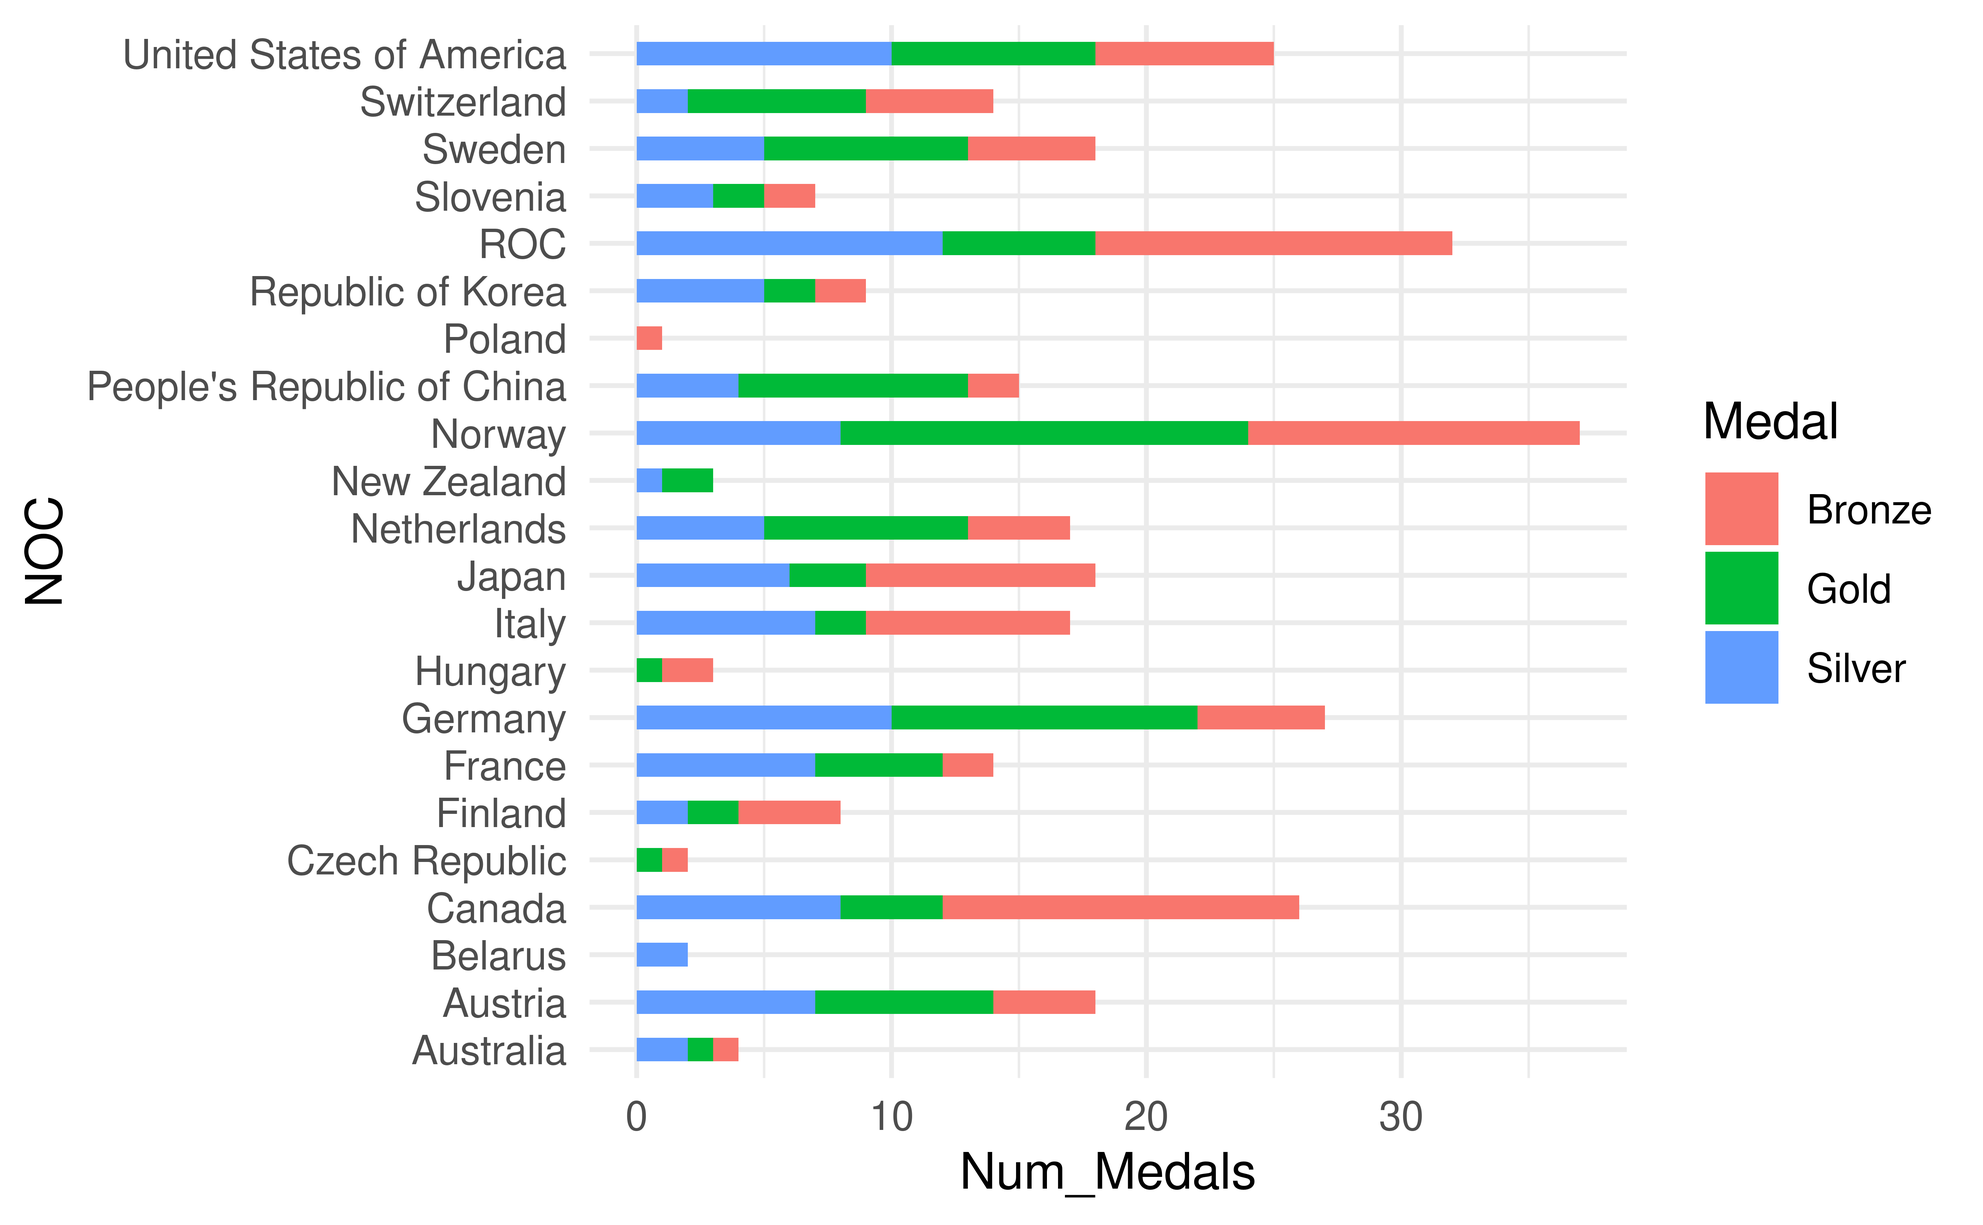
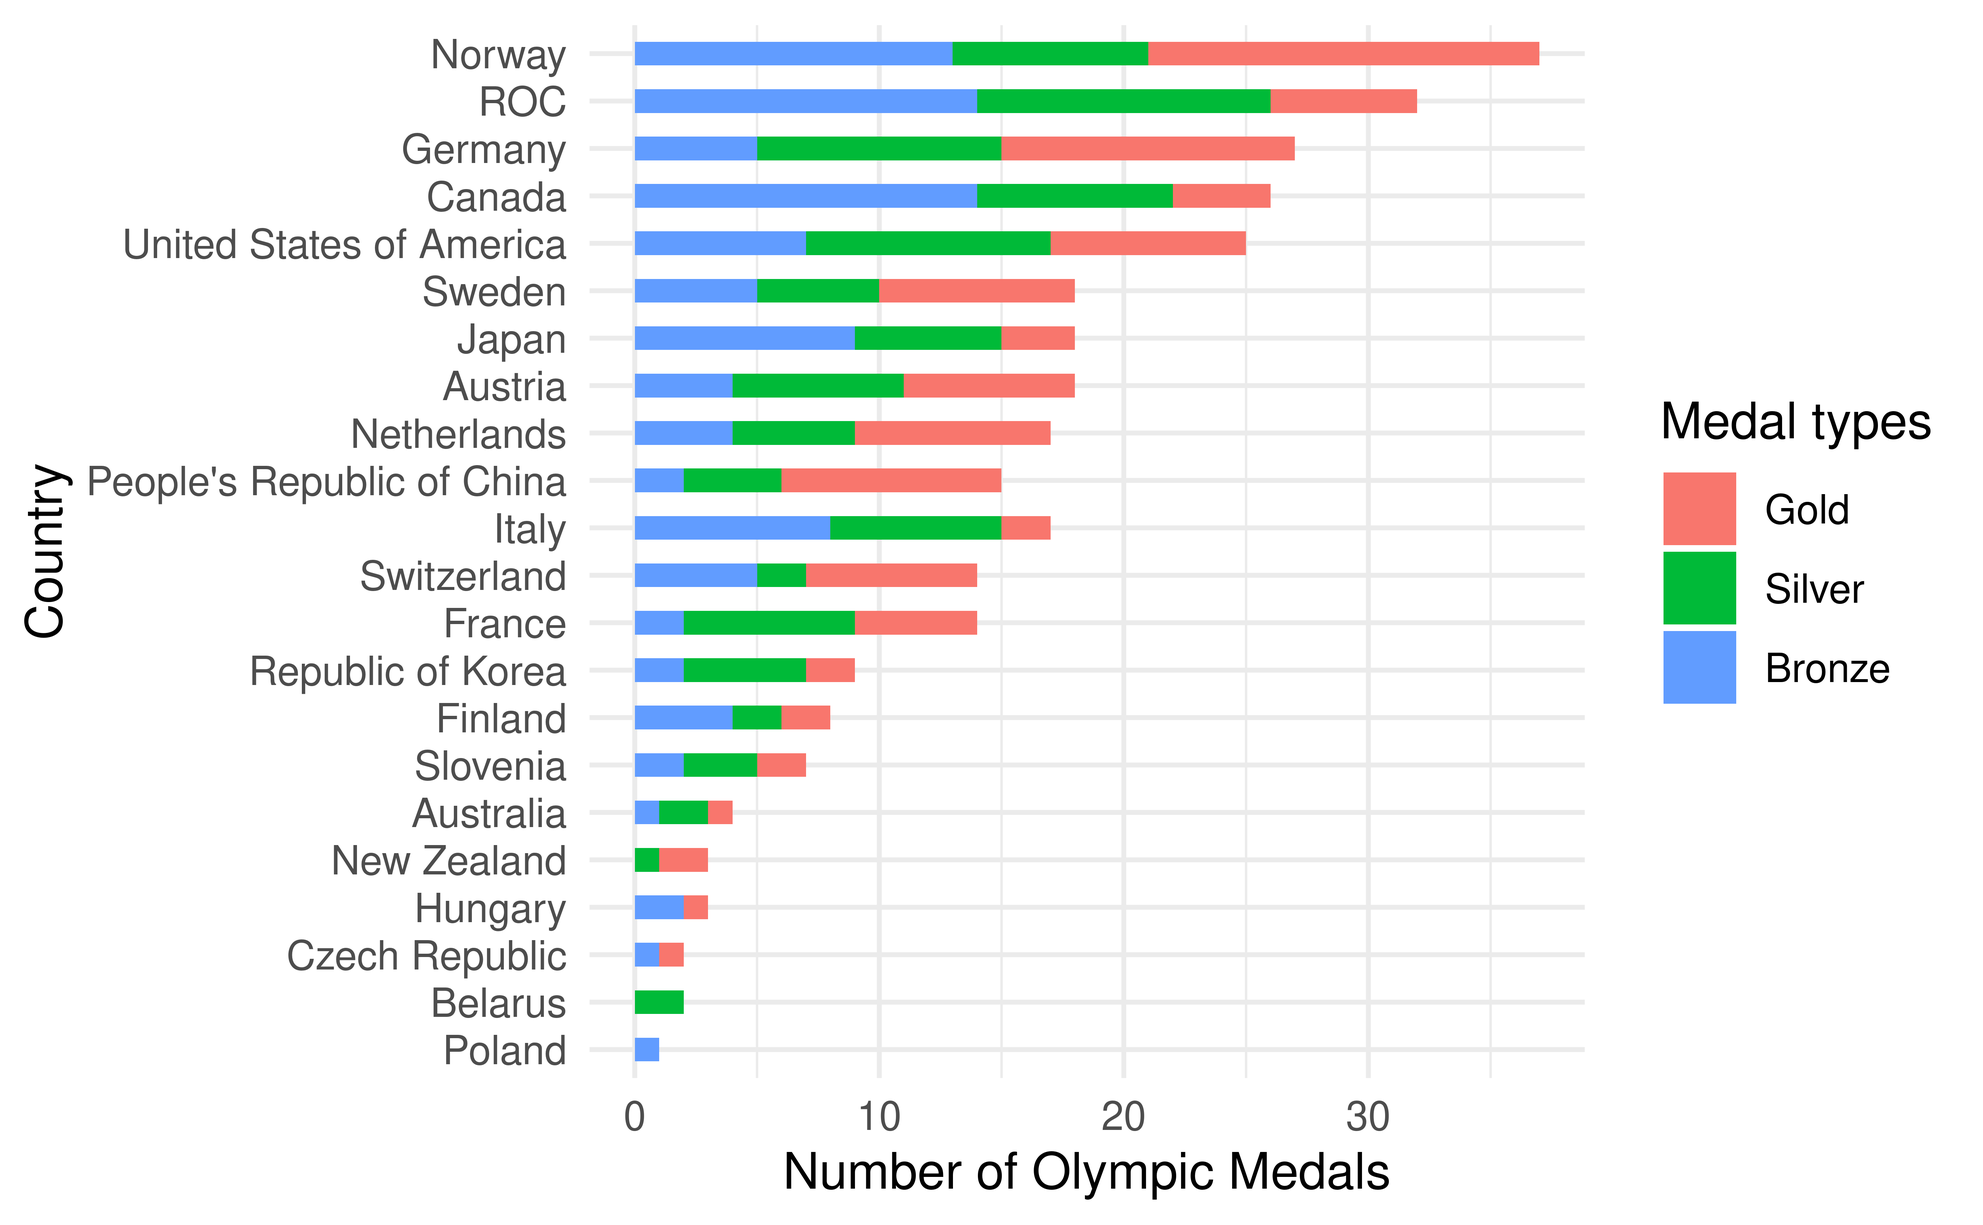
Fixed slide 6!

diff --git a/presentation/presentation.html b/presentation/presentation.html
@@ -3,7 +3,7 @@
   <head>
     <title>Olympics: Cash, Climate, and Champions</title>
     <meta charset="utf-8" />
-    <meta name="date" content="2022-04-14" />
+    <meta name="date" content="2022-04-19" />
     <script src="libs/header-attrs-2.11/header-attrs.js"></script>
     <script src="libs/htmlwidgets-1.5.4/htmlwidgets.js"></script>
     <script src="libs/jquery-1.12.4/jquery.min.js"></script>
@@ -23,7 +23,7 @@ class: center, middle, inverse, title-slide
 # Olympics: Cash, Climate, and Champions
 ## Effect of GDP and Temperature on Medal Count
 ### Bates College
-### 2022-04-14
+### 2022-04-19
 
 ---
 
@@ -86,8 +86,8 @@ class: inverse, center
 #Where our Data Comes From:
 .pull-center[
 
-<div id="htmlwidget-e2292fee1b091dbd8e1a" style="width:70%;height:1112.4px;" class="leaflet html-widget"></div>
-<script type="application/json" data-for="htmlwidget-e2292fee1b091dbd8e1a">{"x":{"options":{"crs":{"crsClass":"L.CRS.EPSG3857","code":null,"proj4def":null,"projectedBounds":null,"options":{}}},"calls":[{"method":"addTiles","args":["https://{s}.tile.openstreetmap.org/{z}/{x}/{y}.png",null,null,{"minZoom":0,"maxZoom":18,"tileSize":256,"subdomains":"abc","errorTileUrl":"","tms":false,"noWrap":false,"zoomOffset":0,"zoomReverse":false,"opacity":1,"zIndex":1,"detectRetina":false,"attribution":"&copy; <a href=\"https://openstreetmap.org\">OpenStreetMap<\/a> contributors, <a href=\"https://creativecommons.org/licenses/by-sa/2.0/\">CC-BY-SA<\/a>"}]},{"method":"addCircleMarkers","args":[60,19,10,null,null,{"interactive":true,"className":"","stroke":true,"color":"red","weight":5,"opacity":0.5,"fill":true,"fillColor":"red","fillOpacity":0.2},null,null,null,null,null,{"interactive":false,"permanent":false,"direction":"auto","opacity":1,"offset":[0,0],"textsize":"10px","textOnly":false,"className":"","sticky":true},null]},{"method":"addCircleMarkers","args":[52,5.29,10,null,null,{"interactive":true,"className":"","stroke":true,"color":"blue","weight":5,"opacity":0.5,"fill":true,"fillColor":"blue","fillOpacity":0.2},null,null,null,null,null,{"interactive":false,"permanent":false,"direction":"auto","opacity":1,"offset":[0,0],"textsize":"10px","textOnly":false,"className":"","sticky":true},null]},{"method":"addCircleMarkers","args":[35.86,104.19,10,null,null,{"interactive":true,"className":"","stroke":true,"color":"purple","weight":5,"opacity":0.5,"fill":true,"fillColor":"purple","fillOpacity":0.2},null,null,null,null,null,{"interactive":false,"permanent":false,"direction":"auto","opacity":1,"offset":[0,0],"textsize":"10px","textOnly":false,"className":"","sticky":true},null]},{"method":"addCircleMarkers","args":[51.16,10.45,10,null,null,{"interactive":true,"className":"","stroke":true,"color":"yellow","weight":5,"opacity":0.5,"fill":true,"fillColor":"yellow","fillOpacity":0.2},null,null,null,null,null,{"interactive":false,"permanent":false,"direction":"auto","opacity":1,"offset":[0,0],"textsize":"10px","textOnly":false,"className":"","sticky":true},null]},{"method":"addCircleMarkers","args":[60.47,8.47,10,null,null,{"interactive":true,"className":"","stroke":true,"color":"pink","weight":5,"opacity":0.5,"fill":true,"fillColor":"pink","fillOpacity":0.2},null,null,null,null,null,{"interactive":false,"permanent":false,"direction":"auto","opacity":1,"offset":[0,0],"textsize":"10px","textOnly":false,"className":"","sticky":true},null]},{"method":"addCircleMarkers","args":[41.87,12.57,10,null,null,{"interactive":true,"className":"","stroke":true,"color":"black","weight":5,"opacity":0.5,"fill":true,"fillColor":"black","fillOpacity":0.2},null,null,null,null,null,{"interactive":false,"permanent":false,"direction":"auto","opacity":1,"offset":[0,0],"textsize":"10px","textOnly":false,"className":"","sticky":true},null]},{"method":"addCircleMarkers","args":[61.52,105.32,10,null,null,{"interactive":true,"className":"","stroke":true,"color":"orange","weight":5,"opacity":0.5,"fill":true,"fillColor":"orange","fillOpacity":0.2},null,null,null,null,null,{"interactive":false,"permanent":false,"direction":"auto","opacity":1,"offset":[0,0],"textsize":"10px","textOnly":false,"className":"","sticky":true},null]},{"method":"addCircleMarkers","args":[47.52,14.55,10,null,null,{"interactive":true,"className":"","stroke":true,"color":"white","weight":5,"opacity":0.5,"fill":true,"fillColor":"white","fillOpacity":0.2},null,null,null,null,null,{"interactive":false,"permanent":false,"direction":"auto","opacity":1,"offset":[0,0],"textsize":"10px","textOnly":false,"className":"","sticky":true},null]},{"method":"addCircleMarkers","args":[46.15,14.99,10,null,null,{"interactive":true,"className":"","stroke":true,"color":"green","weight":5,"opacity":0.5,"fill":true,"fillColor":"green","fillOpacity":0.2},null,null,null,null,null,{"interactive":false,"permanent":false,"direction":"auto","opacity":1,"offset":[0,0],"textsize":"10px","textOnly":false,"className":"","sticky":true},null]},{"method":"addCircleMarkers","args":[46.23,2.2138,10,null,null,{"interactive":true,"className":"","stroke":true,"color":"purple4","weight":5,"opacity":0.5,"fill":true,"fillColor":"purple4","fillOpacity":0.2},null,null,null,null,null,{"interactive":false,"permanent":false,"direction":"auto","opacity":1,"offset":[0,0],"textsize":"10px","textOnly":false,"className":"","sticky":true},null]},{"method":"addCircleMarkers","args":[56.14,106.35,10,null,null,{"interactive":true,"className":"","stroke":true,"color":"plum1","weight":5,"opacity":0.5,"fill":true,"fillColor":"plum1","fillOpacity":0.2},null,null,null,null,null,{"interactive":false,"permanent":false,"direction":"auto","opacity":1,"offset":[0,0],"textsize":"10px","textOnly":false,"className":"","sticky":true},null]},{"method":"addCircleMarkers","args":[36.2,138.26,10,null,null,{"interactive":true,"className":"","stroke":true,"color":"wheat","weight":5,"opacity":0.5,"fill":true,"fillColor":"wheat","fillOpacity":0.2},null,null,null,null,null,{"interactive":false,"permanent":false,"direction":"auto","opacity":1,"offset":[0,0],"textsize":"10px","textOnly":false,"className":"","sticky":true},null]},{"method":"addCircleMarkers","args":[46.82,8.2275,10,null,null,{"interactive":true,"className":"","stroke":true,"color":"steelblue1","weight":5,"opacity":0.5,"fill":true,"fillColor":"steelblue1","fillOpacity":0.2},null,null,null,null,null,{"interactive":false,"permanent":false,"direction":"auto","opacity":1,"offset":[0,0],"textsize":"10px","textOnly":false,"className":"","sticky":true},null]},{"method":"addCircleMarkers","args":[25.27,133.87,10,null,null,{"interactive":true,"className":"","stroke":true,"color":"gold","weight":5,"opacity":0.5,"fill":true,"fillColor":"gold","fillOpacity":0.2},null,null,null,null,null,{"interactive":false,"permanent":false,"direction":"auto","opacity":1,"offset":[0,0],"textsize":"10px","textOnly":false,"className":"","sticky":true},null]},{"method":"addCircleMarkers","args":[49.82,15.47,10,null,null,{"interactive":true,"className":"","stroke":true,"color":"peachpuff1","weight":5,"opacity":0.5,"fill":true,"fillColor":"peachpuff1","fillOpacity":0.2},null,null,null,null,null,{"interactive":false,"permanent":false,"direction":"auto","opacity":1,"offset":[0,0],"textsize":"10px","textOnly":false,"className":"","sticky":true},null]},{"method":"addCircleMarkers","args":[40.9,174.89,10,null,null,{"interactive":true,"className":"","stroke":true,"color":"mistyrose2","weight":5,"opacity":0.5,"fill":true,"fillColor":"mistyrose2","fillOpacity":0.2},null,null,null,null,null,{"interactive":false,"permanent":false,"direction":"auto","opacity":1,"offset":[0,0],"textsize":"10px","textOnly":false,"className":"","sticky":true},null]},{"method":"addCircleMarkers","args":[37.09,95.71,10,null,null,{"interactive":true,"className":"","stroke":true,"color":"salmon2","weight":5,"opacity":0.5,"fill":true,"fillColor":"salmon2","fillOpacity":0.2},null,null,null,null,null,{"interactive":false,"permanent":false,"direction":"auto","opacity":1,"offset":[0,0],"textsize":"10px","textOnly":false,"className":"","sticky":true},null]},{"method":"addCircleMarkers","args":[53.71,27.95,10,null,null,{"interactive":true,"className":"","stroke":true,"color":"forestgreen","weight":5,"opacity":0.5,"fill":true,"fillColor":"forestgreen","fillOpacity":0.2},null,null,null,null,null,{"interactive":false,"permanent":false,"direction":"auto","opacity":1,"offset":[0,0],"textsize":"10px","textOnly":false,"className":"","sticky":true},null]},{"method":"addCircleMarkers","args":[47.16,19.5,10,null,null,{"interactive":true,"className":"","stroke":true,"color":"maroon2","weight":5,"opacity":0.5,"fill":true,"fillColor":"maroon2","fillOpacity":0.2},null,null,null,null,null,{"interactive":false,"permanent":false,"direction":"auto","opacity":1,"offset":[0,0],"textsize":"10px","textOnly":false,"className":"","sticky":true},null]},{"method":"addCircleMarkers","args":[61.92,25.75,10,null,null,{"interactive":true,"className":"","stroke":true,"color":"maroon","weight":5,"opacity":0.5,"fill":true,"fillColor":"maroon","fillOpacity":0.2},null,null,null,null,null,{"interactive":false,"permanent":false,"direction":"auto","opacity":1,"offset":[0,0],"textsize":"10px","textOnly":false,"className":"","sticky":true},null]},{"method":"addCircleMarkers","args":[35.91,127.77,10,null,null,{"interactive":true,"className":"","stroke":true,"color":"palegreen","weight":5,"opacity":0.5,"fill":true,"fillColor":"palegreen","fillOpacity":0.2},null,null,null,null,null,{"interactive":false,"permanent":false,"direction":"auto","opacity":1,"offset":[0,0],"textsize":"10px","textOnly":false,"className":"","sticky":true},null]},{"method":"addCircleMarkers","args":[51.92,19.15,10,null,null,{"interactive":true,"className":"","stroke":true,"color":"turquoise2","weight":5,"opacity":0.5,"fill":true,"fillColor":"turquoise2","fillOpacity":0.2},null,null,null,null,null,{"interactive":false,"permanent":false,"direction":"auto","opacity":1,"offset":[0,0],"textsize":"10px","textOnly":false,"className":"","sticky":true},null]}],"limits":{"lat":[25.27,61.92],"lng":[2.2138,174.89]}},"evals":[],"jsHooks":[]}</script>
+<div id="htmlwidget-81b42ddbbd52c40c7c3d" style="width:70%;height:1112.4px;" class="leaflet html-widget"></div>
+<script type="application/json" data-for="htmlwidget-81b42ddbbd52c40c7c3d">{"x":{"options":{"crs":{"crsClass":"L.CRS.EPSG3857","code":null,"proj4def":null,"projectedBounds":null,"options":{}}},"calls":[{"method":"addTiles","args":["https://{s}.tile.openstreetmap.org/{z}/{x}/{y}.png",null,null,{"minZoom":0,"maxZoom":18,"tileSize":256,"subdomains":"abc","errorTileUrl":"","tms":false,"noWrap":false,"zoomOffset":0,"zoomReverse":false,"opacity":1,"zIndex":1,"detectRetina":false,"attribution":"&copy; <a href=\"https://openstreetmap.org\">OpenStreetMap<\/a> contributors, <a href=\"https://creativecommons.org/licenses/by-sa/2.0/\">CC-BY-SA<\/a>"}]},{"method":"addCircleMarkers","args":[60,19,10,null,null,{"interactive":true,"className":"","stroke":true,"color":"red","weight":5,"opacity":0.5,"fill":true,"fillColor":"red","fillOpacity":0.2},null,null,null,null,null,{"interactive":false,"permanent":false,"direction":"auto","opacity":1,"offset":[0,0],"textsize":"10px","textOnly":false,"className":"","sticky":true},null]},{"method":"addCircleMarkers","args":[52,5.29,10,null,null,{"interactive":true,"className":"","stroke":true,"color":"blue","weight":5,"opacity":0.5,"fill":true,"fillColor":"blue","fillOpacity":0.2},null,null,null,null,null,{"interactive":false,"permanent":false,"direction":"auto","opacity":1,"offset":[0,0],"textsize":"10px","textOnly":false,"className":"","sticky":true},null]},{"method":"addCircleMarkers","args":[35.86,104.19,10,null,null,{"interactive":true,"className":"","stroke":true,"color":"purple","weight":5,"opacity":0.5,"fill":true,"fillColor":"purple","fillOpacity":0.2},null,null,null,null,null,{"interactive":false,"permanent":false,"direction":"auto","opacity":1,"offset":[0,0],"textsize":"10px","textOnly":false,"className":"","sticky":true},null]},{"method":"addCircleMarkers","args":[51.16,10.45,10,null,null,{"interactive":true,"className":"","stroke":true,"color":"yellow","weight":5,"opacity":0.5,"fill":true,"fillColor":"yellow","fillOpacity":0.2},null,null,null,null,null,{"interactive":false,"permanent":false,"direction":"auto","opacity":1,"offset":[0,0],"textsize":"10px","textOnly":false,"className":"","sticky":true},null]},{"method":"addCircleMarkers","args":[60.47,8.47,10,null,null,{"interactive":true,"className":"","stroke":true,"color":"pink","weight":5,"opacity":0.5,"fill":true,"fillColor":"pink","fillOpacity":0.2},null,null,null,null,null,{"interactive":false,"permanent":false,"direction":"auto","opacity":1,"offset":[0,0],"textsize":"10px","textOnly":false,"className":"","sticky":true},null]},{"method":"addCircleMarkers","args":[41.87,12.57,10,null,null,{"interactive":true,"className":"","stroke":true,"color":"black","weight":5,"opacity":0.5,"fill":true,"fillColor":"black","fillOpacity":0.2},null,null,null,null,null,{"interactive":false,"permanent":false,"direction":"auto","opacity":1,"offset":[0,0],"textsize":"10px","textOnly":false,"className":"","sticky":true},null]},{"method":"addCircleMarkers","args":[61.52,105.32,10,null,null,{"interactive":true,"className":"","stroke":true,"color":"orange","weight":5,"opacity":0.5,"fill":true,"fillColor":"orange","fillOpacity":0.2},null,null,null,null,null,{"interactive":false,"permanent":false,"direction":"auto","opacity":1,"offset":[0,0],"textsize":"10px","textOnly":false,"className":"","sticky":true},null]},{"method":"addCircleMarkers","args":[47.52,14.55,10,null,null,{"interactive":true,"className":"","stroke":true,"color":"white","weight":5,"opacity":0.5,"fill":true,"fillColor":"white","fillOpacity":0.2},null,null,null,null,null,{"interactive":false,"permanent":false,"direction":"auto","opacity":1,"offset":[0,0],"textsize":"10px","textOnly":false,"className":"","sticky":true},null]},{"method":"addCircleMarkers","args":[46.15,14.99,10,null,null,{"interactive":true,"className":"","stroke":true,"color":"green","weight":5,"opacity":0.5,"fill":true,"fillColor":"green","fillOpacity":0.2},null,null,null,null,null,{"interactive":false,"permanent":false,"direction":"auto","opacity":1,"offset":[0,0],"textsize":"10px","textOnly":false,"className":"","sticky":true},null]},{"method":"addCircleMarkers","args":[46.23,2.2138,10,null,null,{"interactive":true,"className":"","stroke":true,"color":"purple4","weight":5,"opacity":0.5,"fill":true,"fillColor":"purple4","fillOpacity":0.2},null,null,null,null,null,{"interactive":false,"permanent":false,"direction":"auto","opacity":1,"offset":[0,0],"textsize":"10px","textOnly":false,"className":"","sticky":true},null]},{"method":"addCircleMarkers","args":[56.14,106.35,10,null,null,{"interactive":true,"className":"","stroke":true,"color":"plum1","weight":5,"opacity":0.5,"fill":true,"fillColor":"plum1","fillOpacity":0.2},null,null,null,null,null,{"interactive":false,"permanent":false,"direction":"auto","opacity":1,"offset":[0,0],"textsize":"10px","textOnly":false,"className":"","sticky":true},null]},{"method":"addCircleMarkers","args":[36.2,138.26,10,null,null,{"interactive":true,"className":"","stroke":true,"color":"wheat","weight":5,"opacity":0.5,"fill":true,"fillColor":"wheat","fillOpacity":0.2},null,null,null,null,null,{"interactive":false,"permanent":false,"direction":"auto","opacity":1,"offset":[0,0],"textsize":"10px","textOnly":false,"className":"","sticky":true},null]},{"method":"addCircleMarkers","args":[46.82,8.2275,10,null,null,{"interactive":true,"className":"","stroke":true,"color":"steelblue1","weight":5,"opacity":0.5,"fill":true,"fillColor":"steelblue1","fillOpacity":0.2},null,null,null,null,null,{"interactive":false,"permanent":false,"direction":"auto","opacity":1,"offset":[0,0],"textsize":"10px","textOnly":false,"className":"","sticky":true},null]},{"method":"addCircleMarkers","args":[25.27,133.87,10,null,null,{"interactive":true,"className":"","stroke":true,"color":"gold","weight":5,"opacity":0.5,"fill":true,"fillColor":"gold","fillOpacity":0.2},null,null,null,null,null,{"interactive":false,"permanent":false,"direction":"auto","opacity":1,"offset":[0,0],"textsize":"10px","textOnly":false,"className":"","sticky":true},null]},{"method":"addCircleMarkers","args":[49.82,15.47,10,null,null,{"interactive":true,"className":"","stroke":true,"color":"peachpuff1","weight":5,"opacity":0.5,"fill":true,"fillColor":"peachpuff1","fillOpacity":0.2},null,null,null,null,null,{"interactive":false,"permanent":false,"direction":"auto","opacity":1,"offset":[0,0],"textsize":"10px","textOnly":false,"className":"","sticky":true},null]},{"method":"addCircleMarkers","args":[40.9,174.89,10,null,null,{"interactive":true,"className":"","stroke":true,"color":"mistyrose2","weight":5,"opacity":0.5,"fill":true,"fillColor":"mistyrose2","fillOpacity":0.2},null,null,null,null,null,{"interactive":false,"permanent":false,"direction":"auto","opacity":1,"offset":[0,0],"textsize":"10px","textOnly":false,"className":"","sticky":true},null]},{"method":"addCircleMarkers","args":[37.09,95.71,10,null,null,{"interactive":true,"className":"","stroke":true,"color":"salmon2","weight":5,"opacity":0.5,"fill":true,"fillColor":"salmon2","fillOpacity":0.2},null,null,null,null,null,{"interactive":false,"permanent":false,"direction":"auto","opacity":1,"offset":[0,0],"textsize":"10px","textOnly":false,"className":"","sticky":true},null]},{"method":"addCircleMarkers","args":[53.71,27.95,10,null,null,{"interactive":true,"className":"","stroke":true,"color":"forestgreen","weight":5,"opacity":0.5,"fill":true,"fillColor":"forestgreen","fillOpacity":0.2},null,null,null,null,null,{"interactive":false,"permanent":false,"direction":"auto","opacity":1,"offset":[0,0],"textsize":"10px","textOnly":false,"className":"","sticky":true},null]},{"method":"addCircleMarkers","args":[47.16,19.5,10,null,null,{"interactive":true,"className":"","stroke":true,"color":"maroon2","weight":5,"opacity":0.5,"fill":true,"fillColor":"maroon2","fillOpacity":0.2},null,null,null,null,null,{"interactive":false,"permanent":false,"direction":"auto","opacity":1,"offset":[0,0],"textsize":"10px","textOnly":false,"className":"","sticky":true},null]},{"method":"addCircleMarkers","args":[61.92,25.75,10,null,null,{"interactive":true,"className":"","stroke":true,"color":"maroon","weight":5,"opacity":0.5,"fill":true,"fillColor":"maroon","fillOpacity":0.2},null,null,null,null,null,{"interactive":false,"permanent":false,"direction":"auto","opacity":1,"offset":[0,0],"textsize":"10px","textOnly":false,"className":"","sticky":true},null]},{"method":"addCircleMarkers","args":[35.91,127.77,10,null,null,{"interactive":true,"className":"","stroke":true,"color":"palegreen","weight":5,"opacity":0.5,"fill":true,"fillColor":"palegreen","fillOpacity":0.2},null,null,null,null,null,{"interactive":false,"permanent":false,"direction":"auto","opacity":1,"offset":[0,0],"textsize":"10px","textOnly":false,"className":"","sticky":true},null]},{"method":"addCircleMarkers","args":[51.92,19.15,10,null,null,{"interactive":true,"className":"","stroke":true,"color":"turquoise2","weight":5,"opacity":0.5,"fill":true,"fillColor":"turquoise2","fillOpacity":0.2},null,null,null,null,null,{"interactive":false,"permanent":false,"direction":"auto","opacity":1,"offset":[0,0],"textsize":"10px","textOnly":false,"className":"","sticky":true},null]}],"limits":{"lat":[25.27,61.92],"lng":[2.2138,174.89]}},"evals":[],"jsHooks":[]}</script>
 ]
 
 .pull-left[
@@ -111,7 +111,7 @@ class: center
 
 ---
 class: inverse, center
-##Gold Medals Per Country 
+##Medals Per Country 
 
 .pull-center[
 &lt;img src="presentation_files/figure-html/medals_p-1.png" title="Stacked bar plot showing total number of metals per country divided into gold, silver and bronze" alt="Stacked bar plot showing total number of metals per country divided into gold, silver and bronze" width="70%" style="display: block; margin: auto;" /&gt;
